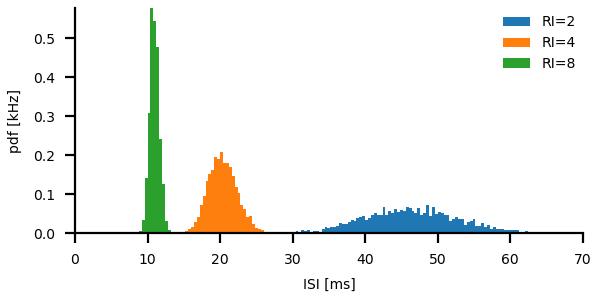
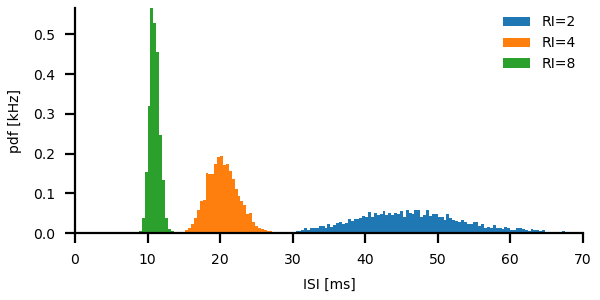
added adaptation noise

diff --git a/lifac/lifac.py b/lifac/lifac.py
@@ -3,8 +3,8 @@ import matplotlib.pyplot as plt
 from scipy.interpolate import interp1d
 
 
-def lifac(time, stimulus, taum=0.01, tref=0.003, noised=0.01,
-          vreset=0.0, vthresh=1.0, taua=0.1, alpha=0.05, rng=np.random):
+def lifac(time, stimulus, taum=0.01, tref=0.003, noisedv=0.01, vreset=0.0, vthresh=1.0,
+          taua=0.1, alpha=0.05, noiseda=0.0, rng=np.random):
     """ Leaky integrate-and-fire neuron with adaptation current.
 
     $$\\tau_m \\frac{dV}{dt} = - V + RI - A + D\\xi$$
@@ -22,6 +22,8 @@ def lifac(time, stimulus, taum=0.01, tref=0.003, noised=0.01,
         Membrane time constant, same unit as `time`.
     tref: float
         Absolute refractory period (spike width), same unit as `time`.
+    noisedv: float
+        Noise strength D of additive white noise for membrane equation.
     vreset: float
         Reset value for membrane voltage.
     vthresh: float
@@ -32,8 +34,8 @@ def lifac(time, stimulus, taum=0.01, tref=0.003, noised=0.01,
     alpha: float
         Adaptation strength. At each spike the adaptation variable is incremented by
         `alpha` divided by `taua`.
-    noised: float
-        Noise strength D.
+    noiseda: float
+        Noise strength D of additive white noise for adaptation dynamics.
     rng: random number generator with an randn() function
         Random number generator for computing the additive noise.
               
@@ -48,17 +50,18 @@ def lifac(time, stimulus, taum=0.01, tref=0.003, noised=0.01,
     """
     # time step:
     dt = time[1] - time[0]
-    # noise term properly scaled:
-    noise = rng.randn(len(stimulus))*noised/np.sqrt(dt)
+    # noise terms properly scaled:
+    noisev = rng.randn(len(stimulus))*noisedv/np.sqrt(dt)
+    noisea = rng.randn(len(stimulus))*noiseda/np.sqrt(dt)
     # initializiation for forgetting initial conditions:
     tn = time[0]
     V = rng.rand()
     A = 0.0
-    for k in range(min(1000, len(noise))):
+    for k in range(min(1000, len(noisev))):
         if time[k] < tn:
             continue
-        V += (-V - A + stimulus[0] + noise[k])*dt/taum
-        A += -A*dt/taua
+        V += (-V - A + stimulus[0] + noisev[k])*dt/taum
+        A += (-A + noisea[k])*dt/taua
         if V > vthresh:
             V = vreset
             A += alpha/taua
@@ -75,9 +78,9 @@ def lifac(time, stimulus, taum=0.01, tref=0.003, noised=0.01,
         if time[k] < tn:
             continue
         # membrane equation:
-        V += (-V - A + stimulus[k] + noise[k])*dt/taum
+        V += (-V - A + stimulus[k] + noisev[k])*dt/taum
         # adaptation dynamics:
-        A += -A*dt/taua
+        A += (-A + noisea[k])*dt/taua
         # threshold condition:
         if V > vthresh:
             V = vreset               # voltage reset
@@ -340,14 +343,14 @@ def lifac_demo():
     plot_lifac_trial(axs[0,0], time, stimulus)
     plot_raster(axs[1,0], time, spikes)
     plot_firing_rate(axs[2,0], time, spikes)
+    # f-I curves:
+    plot_lifac_fIcurves(axs[2,1])
     # baseline statistics:
     inputs = [2.0, 4.0, 6.0]
-    spikes = [baseline_activity(s, 200.0, lifac) for s in inputs]
+    spikes = [baseline_activity(s, 200.0, lifac, noiseda=0.03) for s in inputs]
     labels = ['RI=%g' % s for s in inputs]
     plot_isih(axs[0,1], spikes, labels)
     plot_serial_correlation(axs[1,1], spikes, labels)
-    # f-I curves:
-    plot_lifac_fIcurves(axs[2,1])
     plt.show()
 
         

diff --git a/lifac/lifacplots.py b/lifac/lifacplots.py
@@ -109,7 +109,7 @@ def baseline_activity(s, tmax):
     dt = 0.0001               # integration time step in seconds
     time = np.arange(0.0, tmax, dt)
     stimulus = np.zeros(len(time)) + s
-    spikes, _, _ = la.lifac(time, stimulus)
+    spikes, _, _ = la.lifac(time, stimulus, noiseda=0.03)
     return spikes[spikes > 1.0] - 1.0   # steady-state only
 
 

diff --git a/lifac/README.md b/lifac/README.md
@@ -12,29 +12,32 @@ for a demo.
 The leaky integrate-and-fire neuron is extended by an adaptation current *A*:
 
 <img src=
-"https://render.githubusercontent.com/render/math?math=%5Clarge+%5Cdisplaystyle+%5Cbegin%7Balign%2A%7D%0A%5Ctau_m+%5Cfrac%7BdV%7D%7Bdt%7D+%26%3D+-+V+%2B+RI+-+A+%2B+D%5Cxi+%5C%5C%0A%5Ctau_a+%5Cfrac%7BdA%7D%7Bdt%7D+%26%3D+-A%0A%5Cend%7Balign%2A%7D%0A" 
+"https://render.githubusercontent.com/render/math?math=%5Clarge+%5Cdisplaystyle+%5Cbegin%7Balign%2A%7D%0A%5Ctau_m+%5Cfrac%7BdV%7D%7Bdt%7D+%26%3D+-+V+%2B+RI+-+A+%2B+D_v%5Cxi+%5C%5C%0A%5Ctau_a+%5Cfrac%7BdA%7D%7Bdt%7D+%26%3D+-+A+%2B+D_a%5Cxi%0A%5Cend%7Balign%2A%7D" 
 alt="\begin{align*}
-\tau_m \frac{dV}{dt} &= - V + RI - A + D\xi \\
-\tau_a \frac{dA}{dt} &= -A
-\end{align*}
-">
+\tau_m \frac{dV}{dt} &= - V + RI - A + D_v\xi \\
+\tau_a \frac{dA}{dt} &= - A + D_a\xi
+\end{align*}">
 
 The leaky integration of the membrane potential *V(t)* with membrane
-time constant *&#120591;<sub>m</sub>* is driven by a stimulus *RI* (input
-resistance *R* times injected current *I(t)*) from which the
-adaptation current *A* is subtracted. *D&#958;* is an additive white
-noise. The adaptation current is integrated with the adaptation time
-constant *&#120591;<sub>m</sub>*. Whenever the membrane voltage crosses the
-firing threshold &#952;, a spike is generated, the adaptation current
-is incremented by &#945;, the voltage is reset to *V<sub>r</sub>*, and
-integration is paused for the absolute refractory period *&#120591;<sub>r</sub>*.
+time constant *&#120591;<sub>m</sub>* is driven by a stimulus *RI*
+(input resistance *R* times injected current *I(t)*) from which the
+adaptation current *A* is subtracted. The adaptation current is
+integrated with the adaptation time constant
+*&#120591;<sub>m</sub>*. *D<sub>v</sub>&#958;* and
+*D<sub>a</sub>&#958;* are additive white noises for the membrane
+equation and adaptaion dynamics, respectively. Whenever the membrane
+voltage crosses the firing threshold &#952;, a spike is generated, the
+adaptation current is incremented by &#945;, the voltage is reset to
+*V<sub>r</sub>*, and integration is paused for the absolute refractory
+period *&#120591;<sub>r</sub>*.
 
 The `lifac()` function integrates the model using Euler forward integration:
 ``` py
-def lifac(time, stimulus, taum=0.01, tref=0.003, noised=0.01,
-          vreset=0.0, vthresh=1.0, taua=0.1, alpha=0.05, rng=np.random):
+def lifac(time, stimulus, taum=0.01, tref=0.003, noisedv=0.01,
+          vreset=0.0, vthresh=1.0, taua=0.1, alpha=0.05, noiseda=0.01, rng=np.random):
     dt = time[1] - time[0]                                # time step
-    noise = rng.randn(len(stimulus))*noised/np.sqrt(dt)   # properly scaled noise term
+    noisev = rng.randn(len(stimulus))*noisedv/np.sqrt(dt) # properly scaled voltage noise term
+    noisea = rng.randn(len(stimulus))*noiseda/np.sqrt(dt) # properly scaled adaptation noise term
     # initialization:
     tn = time[0]
     V = rng.rand()
@@ -44,8 +47,8 @@ def lifac(time, stimulus, taum=0.01, tref=0.003, noised=0.01,
     for k in range(len(stimulus)):
         if time[k] < tn:
             continue                 # no integration during refractory period
-        V += (-V - A + stimulus[k] + noise[k])*dt/taum    # membrane equation
-        A += -A*dt/taua                                   # adaptation dynamics
+        V += (-V - A + stimulus[k] + noisev[k])*dt/taum   # membrane equation
+        A += (-A + noisea[k])*dt/taua                     # adaptation dynamics
         if V > vthresh:              # threshold condition
             V = vreset               # voltage reset
             A += alpha/taua          # adaptation increment
@@ -107,8 +110,9 @@ A conceptionally different type of estimating a neuron's firing rate
 is the instantaneous firing rate. It computes the firing rate from the
 inverse inter-spike intervals at a given time point averaged over
 trials. This measure is largely independent of spike time jitter and
-instead measures interspike intervals. Consequently, at high firing
-rates temporal resultion is higher and at low firing rate it is lower.
+instead measures interspike intervals (ISI). Consequently, at high
+firing rates temporal resultion is higher and at low firing rate it is
+lower.
 
 For quantifying the dynamics of adaptation the instantaneous firing
 rate is more suitable. Neural adaptation is a surathreshold phenomenon
@@ -204,13 +208,13 @@ for i, stim in enumerate(inputs):
 ## Baseline statistics
 
 From the steady-state response to some stimulus you can compute
-interspike-interval histograms.
+interspike-interval (ISI) histograms.
 
 ``` py
 tmax = 200.0
 time = np.arange(0.0, tmax, dt)
 stimulus = np.zeros(len(time)) + 2.0
-spikes, _, _ = la.lifac(time, stimulus)
+spikes, _, _ = la.lifac(time, stimulus, noiseda=0.03)
 isis = np.diff(spikes[spikes>1.0])  # analyse steady-state only
 bw = 0.0005                         # bin width in seconds
 bins = np.arange((np.min(isis)//bw)*bw, (np.max(isis)//bw+1)*bw, bw)
@@ -219,7 +223,11 @@ ax.hist(tfac*isis, tfac*bins, density=True, label=l)
 
 ![ficurves](lifac-isih.png)
 
-Or the serial correlation between successive interspike intervals at various lags:
+The ISI histograms get longer tails when the adaptation process itself
+is noisy (`noiseda` argument to the `lifac()` function).
+
+Compute the serial correlation between successive interspike intervals
+at various lags:
 
 ``` py
 max_lag = 5
@@ -228,5 +236,13 @@ scorr = [1.0] + [np.corrcoef(isis[k:], isis[:-k])[1,0] for k in lags[1:]]
 ax.plot(lags, scorr, '-o')
 ```
 
+Adaptation and additive noise in the membrane equation introduces
+negative correlations at lag 1, i.e. long ISI intervals are followed
+by short ones and *vice versa*.
+
 ![ficurves](lifac-isicorr.png)
+
+Additive noise in the adaptation dynamics results in
+Ornstein-Uhlenbeck noise in the membrane equation and thus introduces
+positive ISI correlation.
 
